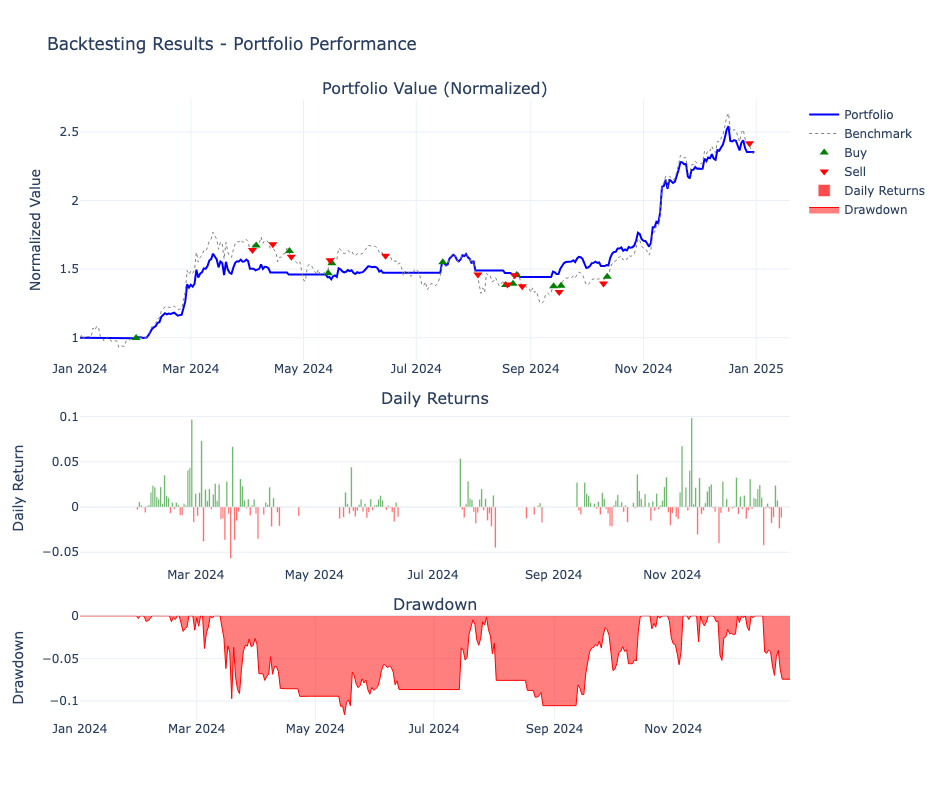
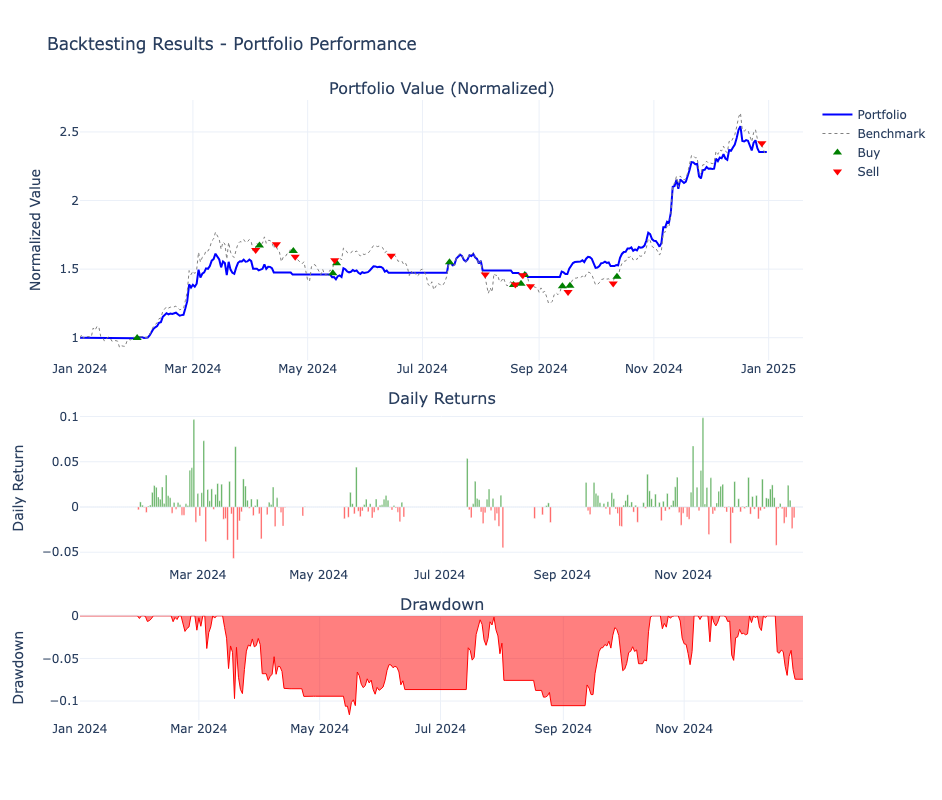
feat: 백테스트 결과 시각화 개선 및 실행 시간 수정

diff --git a/quantbt/core/value_objects/backtest_result.py b/quantbt/core/value_objects/backtest_result.py
@@ -234,7 +234,8 @@ class BacktestResult:
                     x=dates[1:], y=returns,
                     name="Daily Returns",
                     marker_color=colors,
-                    opacity=0.7
+                    opacity=0.7,
+                    showlegend=False
                 ),
                 row=2, col=1
             )
@@ -248,7 +249,8 @@ class BacktestResult:
                     x=drawdown_dates, y=drawdown,
                     name="Drawdown",
                     fill="tozeroy",
-                    line=dict(color="red", width=1)
+                    line=dict(color="red", width=1),
+                    showlegend=False
                 ),
                 row=3, col=1
             )
